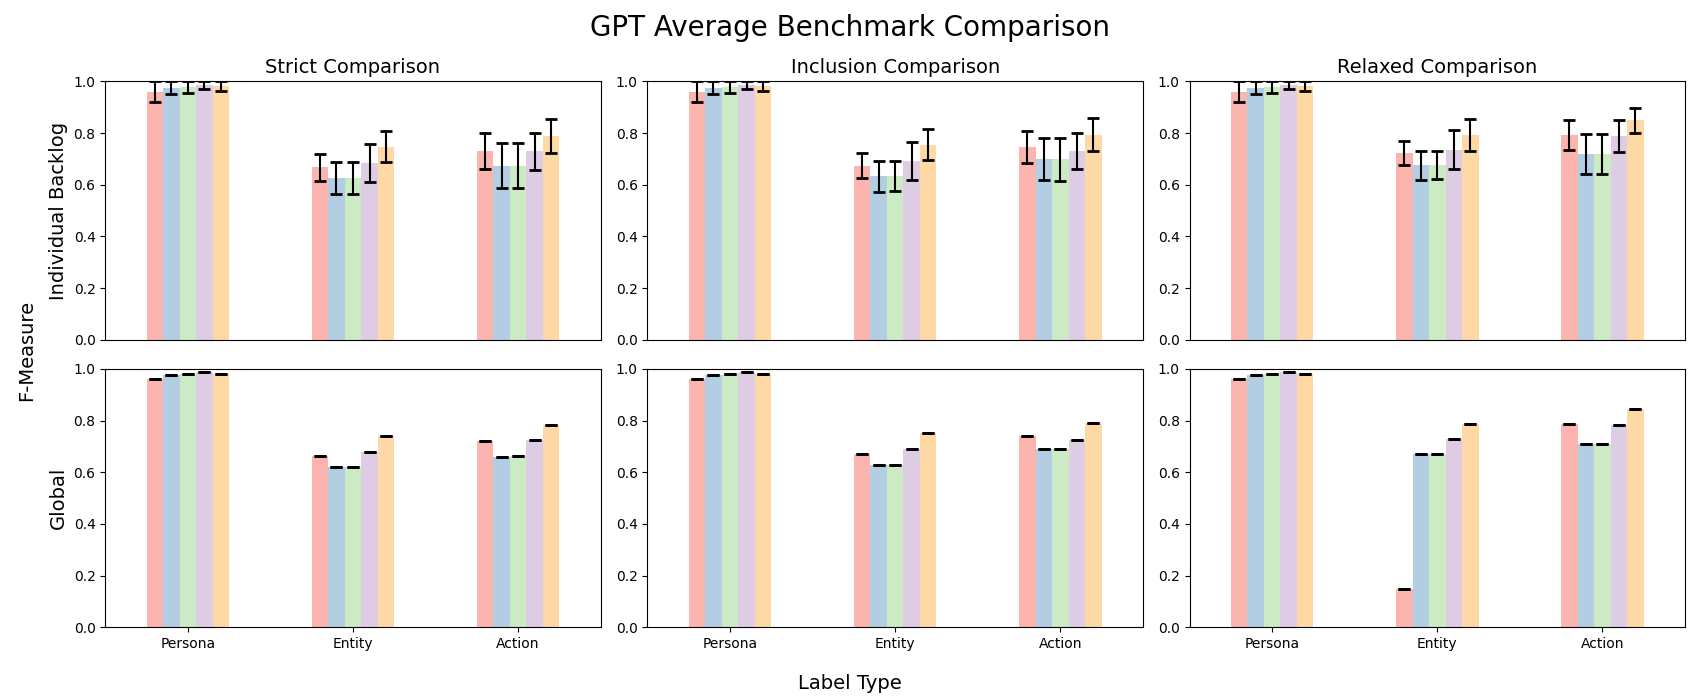
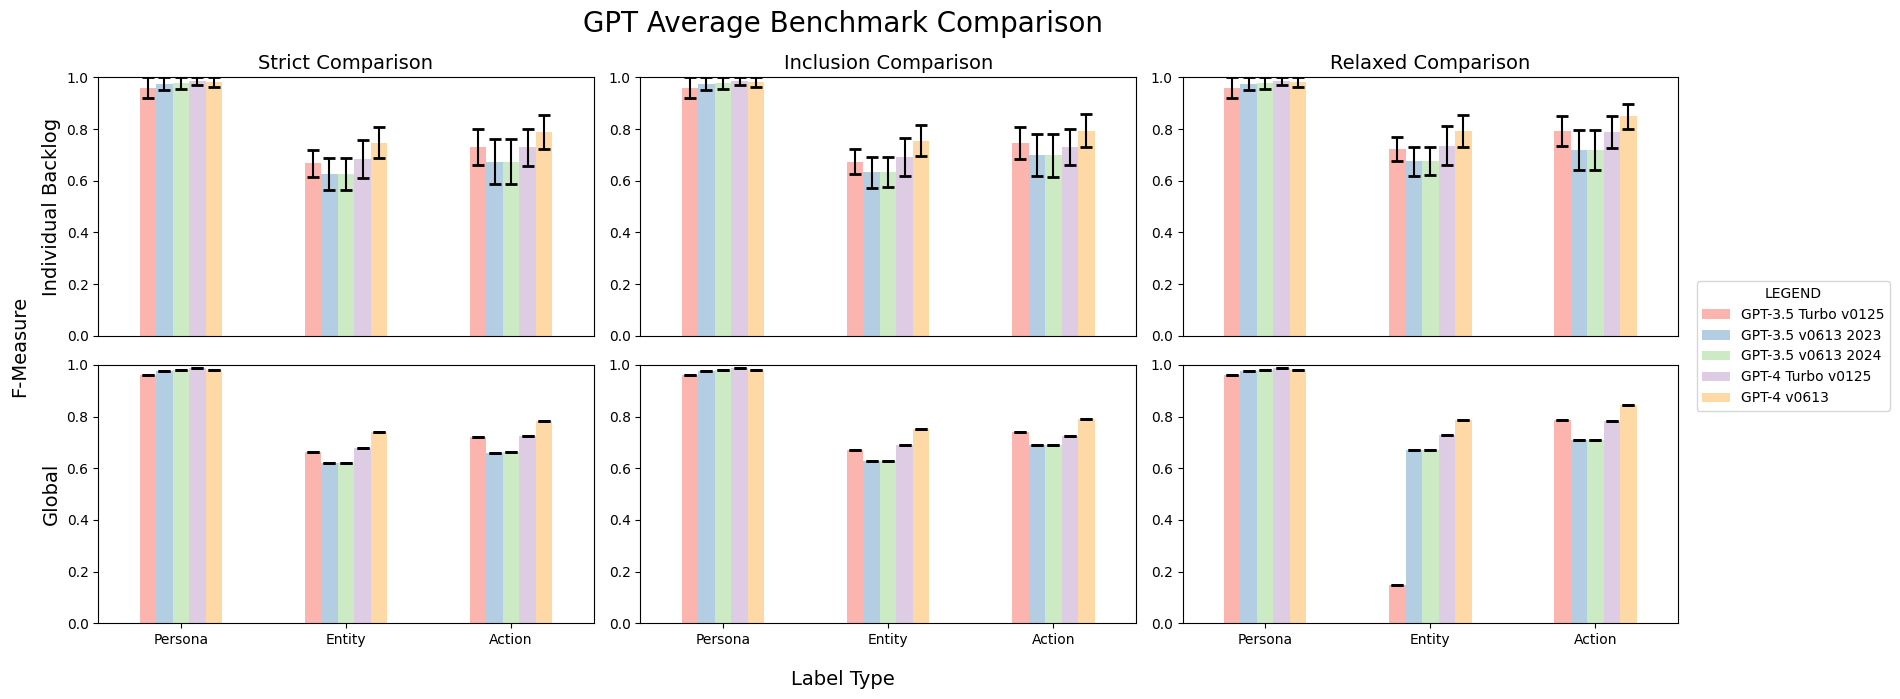
Adding a legend to the final results graph

diff --git a/compare/combine_final_results.py b/compare/combine_final_results.py
@@ -78,22 +78,22 @@ def identify_files(with_crf, primary):
 
     if with_crf:
         vn_bklg = "final_results\\individual_nlp_results\\total_results\\" + crf_path + "individual_backlog\\visual_narrator\\dataset_csv_input_visual_narrator\\" +data_type + "_csv_results\\visual_narrator_individual_backlog_average.csv"
-        gpt_bklg = "final_results\\individual_nlp_results\\total_results\\" + crf_path + "individual_backlog\\chatgpt\\dataset_csv_input_gpt_3_5_v0125\\" +data_type + "_csv_results\\gpt_3_5_v0125_individual_backlog_average.csv"
+        gpt_4_v0613_bklg = "final_results\\individual_nlp_results\\total_results\\" + crf_path + "individual_backlog\\gpt_4_v0613\\dataset_csv_input_gpt_4_v0613\\" + data_type + "_csv_results\\gpt_4_v0613_individual_backlog_average.csv"
         crf_bklg = "final_results\\individual_nlp_results\\total_results\\with_crf\\individual_backlog\\crf\\dataset_csv_input_crf\\" + data_type + "_csv_results\\crf_individual_backlog_average.csv"
         
         # vn_cat = "final_results\\individual_nlp_results\\total_results\\" + crf_path + "categories\\visual_narrator\\dataset_csv_input_visual_narrator\\" +data_type + "_csv_results\\visual_narrator_categories_average.csv"
-        # gpt_cat = "final_results\\individual_nlp_results\\total_results\\" + crf_path + "categories\\chatgpt\\dataset_csv_input_gpt_3_5_v0125\\" +data_type + "_csv_results\\gpt_3_5_v0125_categories_average.csv"
+        # gpt_4_v0613_cat = "final_results\\individual_nlp_results\\total_results\\" + crf_path + "categories\\gpt_4_v0613\\dataset_csv_input_gpt_4_v0613\\" + data_type + "_csv_results\\gpt_4_v0613_categories_average.csv"
         # crf_cat = "final_results\\individual_nlp_results\\total_results\\with_crf\\categories\\crf\\dataset_csv_input_crf\\" + data_type + "_csv_results\\crf_categories_average.csv"
         
         vn_glo = "final_results\\individual_nlp_results\\total_results\\" + crf_path + "global\\visual_narrator\\dataset_csv_input_visual_narrator\\" +data_type + "_csv_results\\visual_narrator_global_average.csv"
-        gpt_glo = "final_results\\individual_nlp_results\\total_results\\" + crf_path + "global\\chatgpt\\dataset_csv_input_gpt_3_5_v0125\\" +data_type + "_csv_results\\gpt_3_5_v0125_global_average.csv"        
+        gpt_4_v0613_glo = "final_results\\individual_nlp_results\\total_results\\" + crf_path + "global\\gpt_4_v0613\\dataset_csv_input_gpt_4_v0613\\" + data_type + "_csv_results\\gpt_4_v0613_global_average.csv"        
         crf_glo = "final_results\\individual_nlp_results\\total_results\\with_crf\\global\\crf\\dataset_csv_input_crf\\" + data_type + "_csv_results\\crf_global_average.csv"
 
-        bklg_file_list = [vn_bklg, gpt_bklg, crf_bklg]
-        # cat_file_list = [vn_cat, gpt_cat, crf_cat]
-        glo_file_list = [vn_glo, gpt_glo, crf_glo]
+        bklg_file_list = [vn_bklg, gpt_4_v0613_bklg, crf_bklg]
+        # cat_file_list = [vn_cat, gpt_4_v0613_cat, crf_cat]
+        glo_file_list = [vn_glo, gpt_4_v0613_glo, crf_glo]
 
-        nlps = ["Visual Narrator", "GPT-3.5 Turbo v0125", "CRF"]
+        nlps = ["Visual Narrator", "GPT-4 v0613", "CRF"]
     else:
         gpt_3_5_v0125_bklg = "final_results\\individual_nlp_results\\total_results\\" + crf_path + "individual_backlog\\gpt_3_5_v0125\\dataset_csv_input_gpt_3_5_v0125\\" + data_type + "_csv_results\\gpt_3_5_v0125_individual_backlog_average.csv"
         gpt_3_5_v0613_2023_bklg = "final_results\\individual_nlp_results\\total_results\\" + crf_path + "individual_backlog\\gpt_3_5_v0613_2023\\dataset_csv_input_gpt_3_5_v0613_2023\\" + data_type + "_csv_results\\gpt_3_5_v0613_2023_individual_backlog_average.csv"
@@ -117,7 +117,7 @@ def identify_files(with_crf, primary):
         # cat_file_list = [gpt_3_5_v0125_cat, gpt_3_5_v0613_2023_cat, gpt_3_5_v0613_2024_cat, gpt_4_turbo_v0125_cat, gpt_4_v0613_cat]
         glo_file_list = [gpt_3_5_v0125_glo, gpt_3_5_v0613_2023_glo, gpt_3_5_v0613_2024_glo, gpt_4_turbo_v0125_glo, gpt_4_v0613_glo]
 
-        nlps = ["GPT-3.5 Turbo v0125", "GPT-3.5 v0613 2023", "GPT-3.5 v0613 2024", "GPT-4 Turbo v0125", "GPT-4 Turbo v0613"]
+        nlps = ["GPT-3.5 Turbo v0125", "GPT-3.5 v0613 2023", "GPT-3.5 v0613 2024", "GPT-4 Turbo v0125", "GPT-4 v0613"]
         
 
     # return bklg_file_list, cat_file_list, glo_file_list, nlps
@@ -352,14 +352,15 @@ def create_final_bargraph(formatted_data, nlps, title, save_name):
     graph.suptitle(title, fontsize = 20)
     graph.supxlabel("Label Type", fontsize=14)
     graph.supylabel("F-Measure", x = 0.01, y = 0.5, fontsize = 14)
+    graph.legend(labels=nlps, title = "LEGEND", loc = "center right", bbox_to_anchor=(1.12, 0.5))
     
     plt.tight_layout()
 
     saving_path_png = "final_results\\comparing_nlps_results\\average_results\\combined_results\\graphs\\" + save_name + ".png"
     saving_path_pdf = "final_results\\comparing_nlps_results\\average_results\\combined_results\\graphs\\" + save_name + ".pdf"
-
-    plt.savefig(saving_path_png)
-    plt.savefig(saving_path_pdf)
+    
+    plt.savefig(saving_path_png, bbox_inches='tight')
+    plt.savefig(saving_path_pdf, bbox_inches='tight')
 
 def fix_max_y_error(standard_deviation, y_data):
     '''
